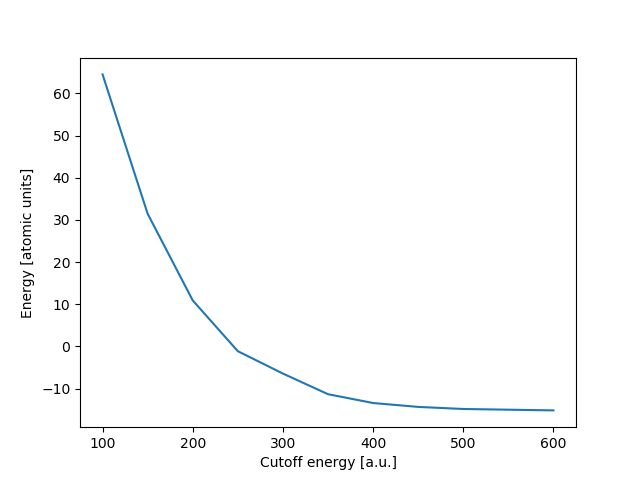
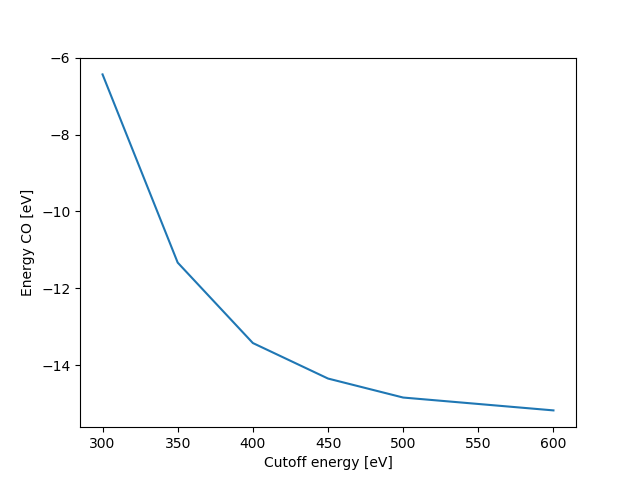
fd

diff --git a/HA2/send/9_calc_adsorption_energy.py b/HA2/send/9_calc_adsorption_energy.py
@@ -13,7 +13,7 @@ from gpaw.poisson import PoissonSolver
 import os
 
 homedir = os.path.expanduser('~')
-file_simulation_parameters = open('7_simulation_params.txt', 'w')
+file_simulation_parameters = open('9_simulation_params.txt', 'w')
 lattice_parameter = 4.04358928739
 energy_bulk = -3.73707160907
 
@@ -44,8 +44,9 @@ for i, slab in enumerate(surfaces):
 
     slab.center(axis=2)
 
+    ads_mode = 'ontop' #'bridge', 'hollow'
     add_adsorbate(slab=slab, adsorbate=CO_adsorbate,
-                  height=2, position='ontop')
+                  height=2, position=ads_mode)
     # if miller_indices[i] == '100':
     #     add_adsorbate(slab=slab, adsorbate=CO_adsorbate,
     #               height=1.981925, position='ontop')
@@ -61,7 +62,7 @@ for i, slab in enumerate(surfaces):
                 xc='PBE',  # XC-functional
                 mixer=mixer,
                 kpts=(n_k_points, n_k_points, 1),  # k-point grid
-                txt='simulate_surface_Al_7_GPAW_' + str(miller_indices[i]) + '.txt')  # name of GPAW output text file
+                txt='simulate_surface_Al_9_GPAW_' + str(miller_indices[i]) + '.txt')  # name of GPAW output text file
 
     slab.set_calculator(calc)
 
@@ -80,7 +81,7 @@ for i, slab in enumerate(surfaces):
 
     energy_slab = slab.get_potential_energy()
     energies.append(energy_slab)
-    sigmas.append((1 / area) * (energy_slab - N_z * energy_bulk))
+    sigmas.append((1 / (2 * area)) * (energy_slab - N_z * energy_bulk))
 
 ''' Calculate energy for CO molecule in vacuum '''
 CO = Atoms('CO', positions=[(0., 0., 0.), (0., 0., d_CO)])
@@ -89,7 +90,7 @@ CO.center()
 
 mixer = Mixer(beta=0.25, nmaxold=3,	weight=1.0)  # Recommended values for small systems
 
-cutoff_energy = 600
+cutoff_energy = 700
 
 calc = GPAW(mode=PW(cutoff_energy),  # use the LCAO basis mode
             h=0.18,  # grid spacing
@@ -101,11 +102,11 @@ CO.set_calculator(calc)
 energy_CO = CO.get_potential_energy()
 
 file_simulation_parameters.close()
-with open(homedir + '/TIF035/HA2/surface/7_calc_adsorbtion_energy.txt', 'w') as textfile:
-    textfile.write('miller_index, area, bulk_energy, surface_energy_density, CO_energy,\n')
+with open(homedir + '/TIF035/HA2/surface/9_calc_adsorbtion_energy_' + ads_mode + '.txt', 'w') as textfile:
+    textfile.write('miller_index, area, slab_energy, surface_energy_density, CO_energy,\n')
     for i in range(len(surfaces)):
         textfile.write(str(miller_indices[i]) + ',' +
                        str(areas[i]) + ',' +
                        str(energies[i]) + ',' +
                        str(sigmas[i]) + ',' +
-                       str(CO_energy) + '\n')
+                       str(energy_CO) + '\n')

diff --git a/HA2/send/8_converge_cutoff_energy_CO.py b/HA2/send/8_converge_cutoff_energy_CO.py
@@ -4,6 +4,7 @@
 import numpy as np
 import matplotlib.pyplot as plt
 from gpaw import GPAW, Mixer, PW, PoissonSolver
+# from gpaw.eigensolvers import Davidson
 from ase.build import *
 from ase import Atoms
 from ase.parallel import rank
@@ -16,11 +17,19 @@ d_CO = 1.128  # CO bondlength in [Å]
 CO = Atoms('CO', positions=[(0., 0., 0.), (0., 0., d_CO)])
 CO.set_cell([5, 5, 5])
 CO.center()
+#
+# C = Atoms('C')
+# C.set_cell([5, 5, 5])
+# C.center()
+#
+# O = Atoms('O')
+# O.set_cell([5, 5, 5])
+# O.center()
 
 mixer = Mixer(beta=0.25, nmaxold=3,	weight=1.0)  # Recommended values for small systems
 
 energies = []
-cutoff_energies = [100, 150, 200, 250, 300, 350, 400, 450, 500, 600]
+cutoff_energies = np.arange(300, 750, 50)
 
 for cutoff_energy in cutoff_energies:
     if rank == 0:
@@ -30,22 +39,34 @@ for cutoff_energy in cutoff_energies:
                 h=0.18,  # grid spacing
                 xc='PBE',  # XC-functional
                 mixer=mixer,
-                txt='simulate_CO_9_GPAW.txt') # name of GPAW output text file
+                txt='simulate_CO_8_GPAW.txt') # name of GPAW output text file
+
+    # calc_C = GPAW(mode=PW(cutoff_energy),  # use the LCAO basis mode
+    #             h=0.18,  # grid spacing
+    #             xc='PBE',  # XC-functional
+    #             mixer=mixer,
+    #             eigensolver=Davidson(niter=5),
+    #             txt='simulate_CO_8_GPAW_C.txt') # name of GPAW output text file
 
     CO.set_calculator(calc)
-    energy_pot = CO.get_potential_energy()
-    energies.append(energy_pot)
+    energy_CO = CO.get_potential_energy()
+    # C.set_calculator(calc_C)
+    # energy_C = C.get_potential_energy()
+    # O.set_calculator(calc)
+    # energy_O = O.get_potential_energy()
+    # energies.append(energy_CO - energy_C - energy_O)
+    energies.append(energy_CO)
 
 if rank == 0:
     plt.figure()
     plt.plot(cutoff_energies, energies, label='Energies')
     plt.xlabel('Cutoff energy [eV]')
-    plt.ylabel('Energy [atomic units]')
+    plt.ylabel('Energy CO [eV]')
     plt.savefig('cutoff_convergence_CO.png')
     plt.savefig('cutoff_convergence_CO.eps')
 
-with open(homedir + '/TIF035/HA2/surface/9_converge_cutoff_CO.txt', 'w') as textfile:
-    textfile.write('cutoff energy, CO_energy\n')
+with open(homedir + '/TIF035/HA2/surface/8_converge_cutoff_CO.txt', 'w') as textfile:
+    textfile.write('cutoff energy, CO energy\n')
     for i in range(len(cutoff_energies)):
         textfile.write(str(cutoff_energies[i]) + ',' +
                        str(energies[i]) + '\n')

diff --git a/HA2/10_Wulff.py b/HA2/10_Wulff.py
@@ -21,10 +21,10 @@ with open('HA2/' + filename1, 'r') as textfile:
     for line in textfile:
         line = line.split(',')
         if line[0] == '111':
-            sigma_ads_111 = float(line[3])
+            energy_slab_ads_111 = float(line[2])
             area_111 = float(line[1])
         if line[0] == '100':
-            sigma_ads_100 = float(line[3])
+            energy_slab_ads_100 = float(line[2])
             area_100 = float(line[1])
 
 with open('HA2/' + filename2, 'r') as textfile:
@@ -33,15 +33,13 @@ with open('HA2/' + filename2, 'r') as textfile:
         line = line.split(',')
         if line[0] == '111':
             sigma_111 = float(line[4])
+            energy_slab_111 = float(line[3])
         if line[0] == '100':
             sigma_100 = float(line[4])
+            energy_slab_100 = float(line[3])
 
-sigma_int_111 = sigma_111 + theta * (sigma_ads_111 - sigma_111 - E_CO / area_111)
-sigma_int_100 = sigma_100 + theta * (sigma_ads_100 - sigma_100 - E_CO / area_100)
-
-print(sigma_int_111)
-print(sigma_int_100)
-
+sigma_int_111 = sigma_111 + theta * ((energy_slab_ads_111 - energy_slab_111 - E_CO) / area_111)
+sigma_int_100 = sigma_100 + theta * ((energy_slab_ads_100 - energy_slab_100 - E_CO) / area_100)
 
 ''' Case: Just Al '''
 Al = wulff_construction('Al',

diff --git a/HA2/plot_12.py b/HA2/plot_12.py
@@ -50,7 +50,7 @@ ax_cutoff.minorticks_on()
 ax_cutoff.grid(which='major', color='gray', linestyle='solid')
 ax_cutoff.grid(which='minor', color='gray', linestyle='dashed')
 ax_cutoff.plot(energy_cutoff, energy_2)
-ax_cutoff.set_ylabel('Simulated energy [atomic units]')
+ax_cutoff.set_ylabel('Simulated energy [eV]')
 ax_cutoff.set_xlabel('Cutoff energy [eV]')
 ax_cutoff.set_xlim([energy_cutoff[0], energy_cutoff[-1]])
 ax_cutoff.yaxis.set_major_formatter(FormatStrFormatter('%.2f'))
